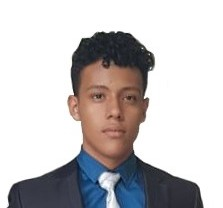
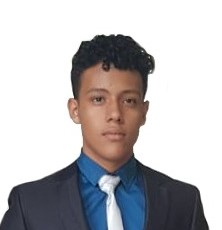
Fixed Mauricio's img and added Cesar testimonial.

Changed region(s): [[0.0, 0.1731, 0.9459, 1.0], [0.4324, 0.1442, 0.5946, 0.1731], [0.1081, 0.9519, 0.1351, 1.0]]

diff --git a/docs/index.html b/docs/index.html
@@ -348,6 +348,20 @@
                             </cite>
                         </div>
                     </div>
+
+                    <div class="testimonial-slider__slide">
+                        <p>
+                            «Responsable, dedicado, optimista y empático. Se remarcan sus valores y principios. En todo lo que hace se evidencian sus habilidades 
+                            y su deseo por aprender más».
+                        </p>
+                        <div class="testimonial-slider__author">
+                            <img src="images/avatars/cesarBran.jfif" alt="Author image" class="testimonial-slider__avatar">
+                            <cite class="testimonial-slider__cite">
+                                <strong>Cesar Bran</strong>
+                                <span>Estudiante, Universidad Rafael Landívar</span>
+                            </cite>
+                        </div>
+                    </div>
                 </div>
             </div>
         </div>
